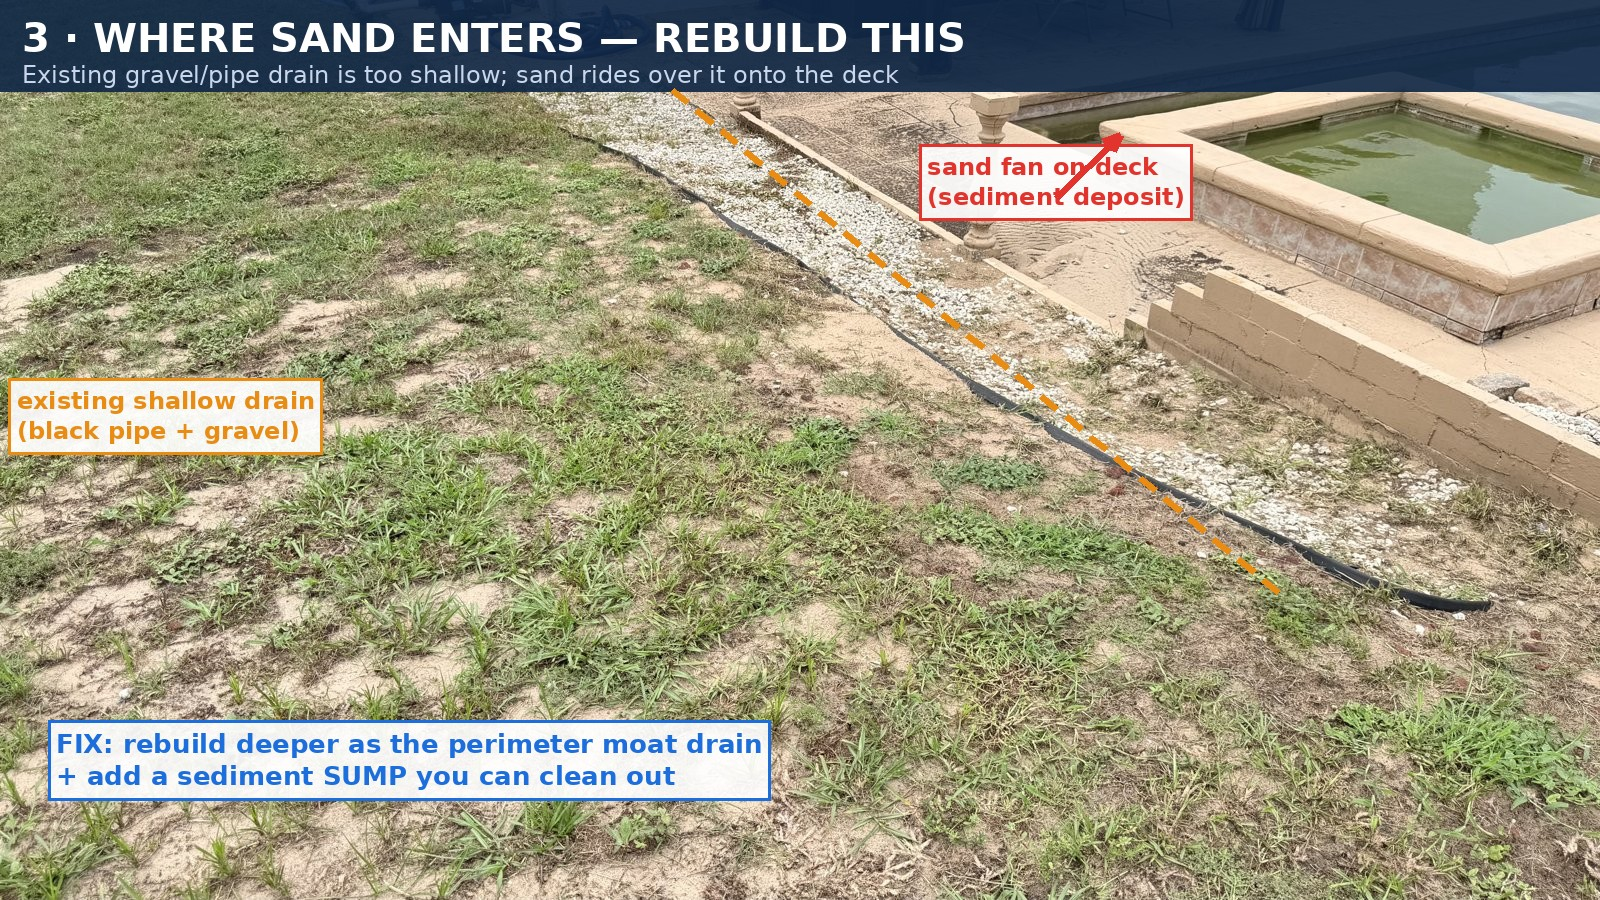
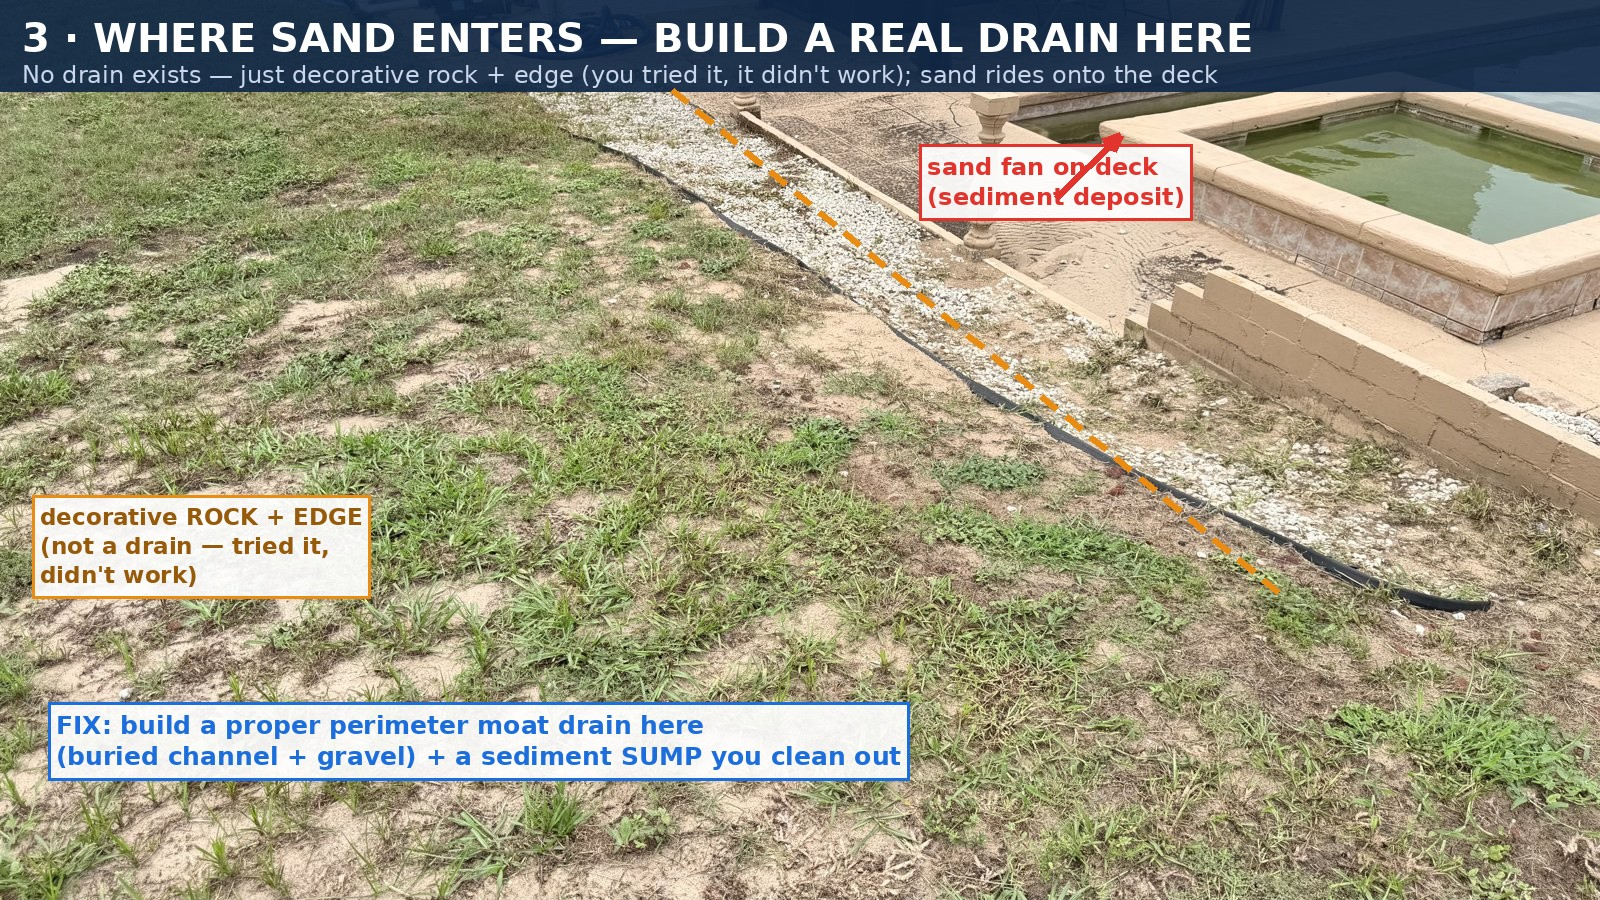
Final build package + corrections from owner walk-through/hose test
- Confirm street outlet via hose test (water runs toward the street on the
  reachable side); drop dry-well-as-primary.
- Correct "existing drain" error across reports 01-03: both sides of the
  pool are decorative rock + edge that were tried for drainage and don't
  work; the deck-edge drain is new construction.
- Fix design pictures 2 and 3 to match (remove stray "to street" arrow;
  relabel the rock/edge as not-a-drain).
- Add report 05: final DIY shopping list and contractor scope of work,
  street outlet, with worksheet-keyed quantities and a worked example.
- Add a corrections log to the README.

Claude-Session: https://claude.ai/code/session_01VQhSLNj1H3uwbdHakN29g6

Changed region(s): [[0.0312, 0.7778, 0.5938, 0.9022], [0.0, 0.4044, 0.25, 0.6844], [0.0, 0.0, 0.7812, 0.0933]]

diff --git a/pool-drainage-improvement-plan/05-final-DIY-and-contractor.md b/pool-drainage-improvement-plan/05-final-DIY-and-contractor.md
@@ -1,0 +1,92 @@
+# Pool Drainage Improvement Plan
+## Report 05 — Final Build Package: DIY Shopping List **and** Contractor Scope of Work
+
+**Prepared by:** Residential Drainage Engineer (stormwater management, Florida)
+**Date:** 2026-07-19
+**Outlet:** **STREET (left side) — confirmed viable.**
+
+### Confirmations incorporated (owner walk-through + hose test)
+- **Outlet = street (left).** Hose test: on the reachable side, water runs down toward the pool **and left toward the street** → the street side is downhill → **gravity discharge to the street works.** No dry well needed.
+- **Orientation (per master plan):** street = left, house = bottom, neighbor = right, hill/vinyl fence = top.
+- **No existing drain.** Both sides of the pool are decorative **rock + edge** that were tried for drainage and don't work — element ② is **new construction**, not a repair.
+- The **sumps are buried** (grate flush at the surface), **gravity-fed — no pumps, no electricity.**
+
+> **Quantities:** the two formats below use the **5 worksheet numbers** from Report 04. Where you haven't measured yet, I show the **worked-example** figures in *(italics)* — replace them with your actuals. Recipes (per-LF, per-SF) are in Report 04 §2.
+
+**Worksheet (fill these in):** A = fence line ___ ft · B = deck edge ___ ft · C = re-sod ___ sf (___ sf sloped) · D = ___ downspouts @ ___ ft · E = deck sump → street ___ ft.
+
+---
+
+# FORMAT A — DIY SHOPPING LIST
+
+Buy by component. Quantities key to the worksheet letters; *(italics)* = example totals for A=40, B=60, C=1500(400 sloped), D=2@25, E=60.
+
+### ① Fence-line interceptor (French drain)
+- [ ] 4" perforated HDPE drain pipe — **= A** *(40 ft)*
+- [ ] ¾" washed drain rock — **~0.75 cu ft/ft × A** *(~1 yd³)*
+- [ ] 4–6 oz non-woven filter fabric (3 ft wide) — **~3.5 sf/ft × A** *(~140 sf roll)*
+- [ ] 1 cleanout riser + grate (high end)
+
+### ② Perimeter "moat" drain at deck edge *(NEW — where the rock is now)*
+- [ ] Pre-fab channel drain w/ grate (4–6", ~40" sections) — **= B** *(60 ft ≈ 18 sections)*
+- [ ] Bagged concrete mix to bed/haunch the channel — **~0.6 cu ft/ft × B** *(~30–36 bags 60-lb)*
+- [ ] Lawn-side French drain (perf pipe + rock + fabric) — **~½ of B** *(~30 ft kit)*
+- [ ] 1 catch basin **with deep sump** at the low end + atrium/beehive grate
+
+### ③ Regrade + re-sod
+- [ ] Sod (St. Augustine/Bahia) — **= C** *(1,500 sf)*
+- [ ] Erosion-control blanket (straw/coir) for slopes — **= sloped part of C** *(400 sf)*
+- [ ] 6" landscape staples — **~1 per 2 sf blanket** *(~200)*
+- [ ] Screened fill/sand to build fall away from deck — *(order by the truck once graded)*
+
+### ④ Downspout capture
+- [ ] Downspout-to-pipe adapter — **= D** *(2)*
+- [ ] 3–4" **solid** pipe — **= sum of D distances** *(~50 ft)*
+- [ ] 90°/45° elbows — *(3–4)*
+
+### ⑤ Convey to the street
+- [ ] 4" **solid** SDR-35/HDPE pipe — **= E** *(60 ft)*
+- [ ] 1 in-line cleanout
+- [ ] 1 pop-up emitter (street end)
+- [ ] Couplers, PVC primer + cement, pipe straps
+
+### Consumables & tools
+- [ ] Marking paint · mason's line + line level (or laser level) · spare fabric
+- [ ] Rent: trencher (or dig by hand — sandy soil is easy) · plate compactor · wheelbarrow
+- [ ] Hand: shovels, hacksaw/pipe saw, utility knife, cordless drill, tamper
+
+### DIY build order (detail in Report 04 §4)
+1. Call **811** (2–3 days ahead) · mark layout · 2. Outlet spine + sump (Day 1) · 3. Fence interceptor (Day 2) · 4. Deck-edge channel + lawn drain + downspouts (Day 3) · 5. Regrade (Day 4) · 6. Sod + blanket + **flood-test** (Day 5).
+**Slopes:** solid pipe ¼"/ft ideal (1% min); perforated ≥1%.
+
+---
+
+# FORMAT B — CONTRACTOR SCOPE OF WORK
+
+Hand this to 2–3 drainage/landscape contractors for **apples-to-apples bids.** Each line is a required deliverable + spec.
+
+**Project:** Backyard stormwater management to eliminate runoff/sediment intrusion into the pool. Corner lot, sandy soil. Discharge to the **street (left side); gravity confirmed.**
+
+**Scope of work — contractor to furnish & install:**
+
+1. **Fence-line interceptor (A ≈ *40 LF*):** French drain along the vinyl-fence base — 4" perforated pipe in ¾" washed stone, fully wrapped in non-woven geotextile ("burrito"), min 1% fall to the conveyance main; cleanout at high end.
+2. **Perimeter deck-edge drain (B ≈ *60 LF*) — NEW:** remove existing decorative rock at the deck edge; install pre-fab channel drain w/ grate, set flush in concrete along the pool-deck uphill edge; tie to a **catch basin with a deep sediment sump** at the low point. *(No usable drain exists today.)*
+3. **Regrade (C ≈ *1,500 SF*):** re-grade the lawn to positive fall **away from the pool deck** toward the interceptor/moat and the street; no ponding. Import screened fill as needed; compact.
+4. **Downspout capture (D = *2*):** connect roof downspouts to solid pipe; route to the conveyance main.
+5. **Conveyance to street (E ≈ *60 LF*):** 4" solid SDR-35 pipe, ¼"/ft target (1% min), in-line cleanout, **pop-up emitter** at the right-of-way; comply with municipal right-of-way discharge rules.
+6. **Soil stabilization:** sod all disturbed/bare areas (C); erosion-control blanket on slopes (*≈400 SF*).
+7. **Testing & closeout:** flood-test at the fence line and demonstrate flow to the street with **no water reaching the pool**; provide as-built sketch of pipe runs, basin, and cleanout locations.
+
+**Bidder requirements / questions to compare:**
+- [ ] Licensed & insured; pulls any required stormwater/right-of-way permit
+- [ ] Confirms **811** locate before excavation
+- [ ] Line-item pricing per scope item 1–7 (so you can trim scope if needed)
+- [ ] Pipe/stone/fabric specs and slopes stated in the bid
+- [ ] Warranty on workmanship (drainage function) — how long?
+- [ ] Restoration included (sod, cleanup, haul-off)
+
+**Suggested phasing if budget-staged:** Item 2 + 4 (deck edge + downspouts) → Item 6 (sod) → Item 1 (interceptor) → Items 3 + 5 (regrade + street line). Items 1, 4, 6 are also the DIY-friendly pieces if you want a hybrid split.
+
+---
+
+*Preliminary. Final quantities depend on the worksheet measurements. Confirm municipal right-of-way discharge rules and call 811 before construction.*

diff --git a/pool-drainage-improvement-plan/README.md b/pool-drainage-improvement-plan/README.md
@@ -16,7 +16,14 @@ the street (the intended outlet) is on the opposite (left) side.
 | 02 | `02-drainage-improvement-plan.md` — full design, product recommendations, phased build plan (no survey; hose-test self-check built in) | ✅ Complete |
 | 03 | `03-final-fix-plan.md` — consolidated 6-part fix for **zero flow into the pool**, refined with the full 57-photo survey (bowl grading, roof downspouts, failing deck drain) | ✅ Complete |
 | 04 | `04-materials-and-dig-day.md` — materials takeoff (both outlets), measure-it-yourself worksheet, dig-day sequence, DIY-vs-contractor split | ✅ Complete (finalize quantities from worksheet) |
+| 05 | `05-final-DIY-and-contractor.md` — **final build package: DIY shopping list + contractor scope of work**, street outlet confirmed | ✅ Complete (finalize quantities from worksheet) |
 | — | `design/` — visual design set: master plan, runoff diagnosis, deck fix, sediment detail, before/after | ✅ Complete |
+
+## Corrections log
+- **2026-07-19** — Owner walk-through + hose test:
+  - **Outlet confirmed = STREET (left).** Hose test showed water running toward the street on the reachable side → gravity discharge works; **no dry well needed.**
+  - **No existing deck drain.** Both sides of the pool are decorative **rock + edge** (tried for drainage, didn't work); element ② is new construction. Reports 01–03 and design pictures 2 & 3 corrected.
+  - Master-plan orientation validated (street left, house bottom, neighbor right, hill top). The stray "to street" arrow in design picture 2 was removed.
 
 ## Source media
 Owner-supplied dry-condition photos (3) and heavy-rain storm videos (2). The storm videos are

diff --git a/pool-drainage-improvement-plan/02-drainage-improvement-plan.md b/pool-drainage-improvement-plan/02-drainage-improvement-plan.md
@@ -82,8 +82,8 @@ A settling point where sand drops out and you scoop it up — instead of it reac
 - **Daylight/pop-up:** a **pop-up emitter** at the discharge end keeps debris and critters out and opens under flow.
 - **Corner-lot note (Florida):** discharging to the right-of-way / swale is common but often regulated. **Confirm with your county/city stormwater or code office before connecting to anything in the right-of-way** — see §5.
 
-#### ⑤ Deck trench drain — clean up and keep as backstop
-Your deck already has a linear channel drain; in the video it's overwhelmed and silted.
+#### ⑤ Deck-edge drain — build new (there is none today)
+*(Corrected per owner walk-through, 2026-07-19: there is no existing deck drain — just decorative rock and an edge that was tried for drainage and doesn't work.)* Build a proper deck-edge drain where the rock is now.
 
 - **Clean it out**, confirm it has a real outlet (not just a soak line that's now clogged), and add a **small catch basin/sump at its low end** so it, too, drops sediment before discharge.
 - Tie its outlet into the same conveyance line to the street (④) if grade allows.

diff --git a/pool-drainage-improvement-plan/03-final-fix-plan.md b/pool-drainage-improvement-plan/03-final-fix-plan.md
@@ -16,7 +16,7 @@ The full photo set shows the backyard is a **shallow bowl with the pool/deck at 
 2. **The yard's own bowl** — the lawn is higher on essentially every side and pitches inward toward the deck.
 3. **Roof downspouts** discharging near the house corner / pool equipment pad, right beside the deck.
 
-An existing gravel-and-black-corrugated-pipe drain along the deck edge is **undersized and failing** — sand rides right over it and fans out on the deck by the spa.
+There is **no working drain** at the deck edge — both sides of the pool are just **decorative rock and an edge** that the owner tried to use for drainage, and it doesn't work. Sand rides right over it and fans out on the deck by the spa.
 
 **To get *zero* flow into the pool, two things must both be true:**
 - **(A)** Nothing that lands uphill can reach the deck — it gets intercepted first.
@@ -53,7 +53,7 @@ A French drain (fabric-wrapped perforated pipe in washed gravel) and/or a shallo
 A continuous collection line wrapping the **uphill sides of the pool deck** — the back and fence sides:
 - **At the deck edge:** a slot/channel (trench) drain flush with the pavers, so any water arriving at the deck drops in instead of crossing onto it.
 - **Just upslope in the lawn:** a shallow French drain feeding the same line.
-This **replaces the failing black corrugated pipe.** With ① reducing the volume, this moat catches the rest. Nothing gets past it onto the deck.
+This is **new construction** where today there is only decorative rock. With ① reducing the volume, this moat catches the rest. Nothing gets past it onto the deck.
 
 #### ③ Regrade the yard — *break the bowl (non-negotiable)*
 Re-shape the lawn so the ground **falls away from the deck** on all sides, toward the interceptor/moat lines and then toward the street. This is what fixes the root cause: after regrading, the yard no longer drains to the pool — it drains to the collection lines. Create a shallow **swale** along the side yard to carry water to the street.

diff --git a/pool-drainage-improvement-plan/01-site-assessment-report.md b/pool-drainage-improvement-plan/01-site-assessment-report.md
@@ -32,7 +32,7 @@ Findings are based on:
 - **Decorative knee wall:** A low tan brick wall wraps the back/side of the deck in an "L." It is a **landscape/retaining accent — not a water-tight barrier.** It has at least one **stepped opening / gap** (visible near the spa) that concentrates flow onto the deck.
 - **Back lawn (fence side):** Largely **bare, sandy soil** with patchy grass — the classic signature of repeated erosion. Sandy Florida soil mobilizes easily.
 - **Perimeter:** White vinyl privacy fence along the elevated (uphill) corner, with older wood fence and a chain-link section elsewhere. Neighboring homes/sheds sit on **higher ground** behind the vinyl fence.
-- **Existing drainage:** A linear **trench/channel drain already exists in the pool deck.** In the storm video it is clearly **overwhelmed and sediment-laden** — it is capturing some water but is undersized for the volume and has no upstream sediment control.
+- **Existing drainage:** *(Corrected per owner walk-through, 2026-07-19.)* There is **no working drain.** Both sides of the pool have only **decorative rock and an edge**; the owner tried to use this for drainage and it does not work. What looked drain-like in the photos is loose rock/edging, not a functioning system.
 
 ---
 